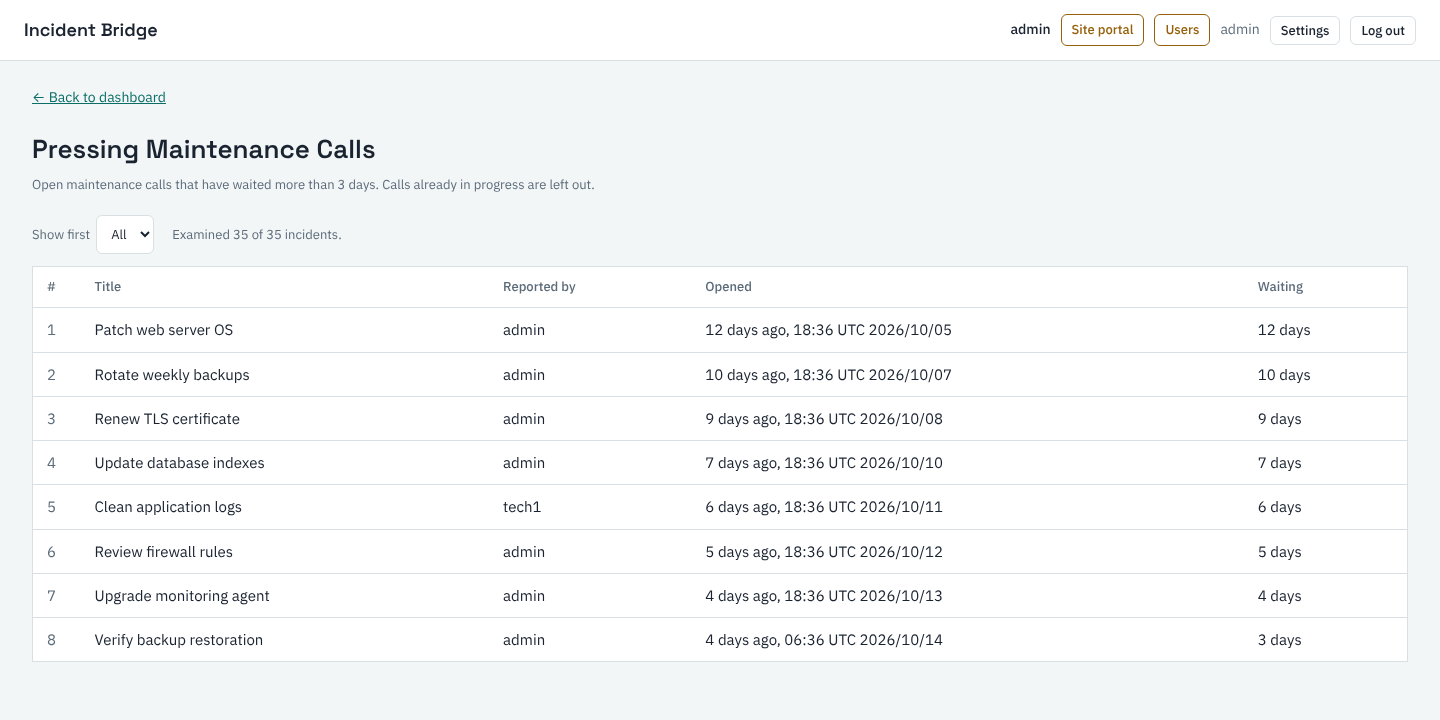
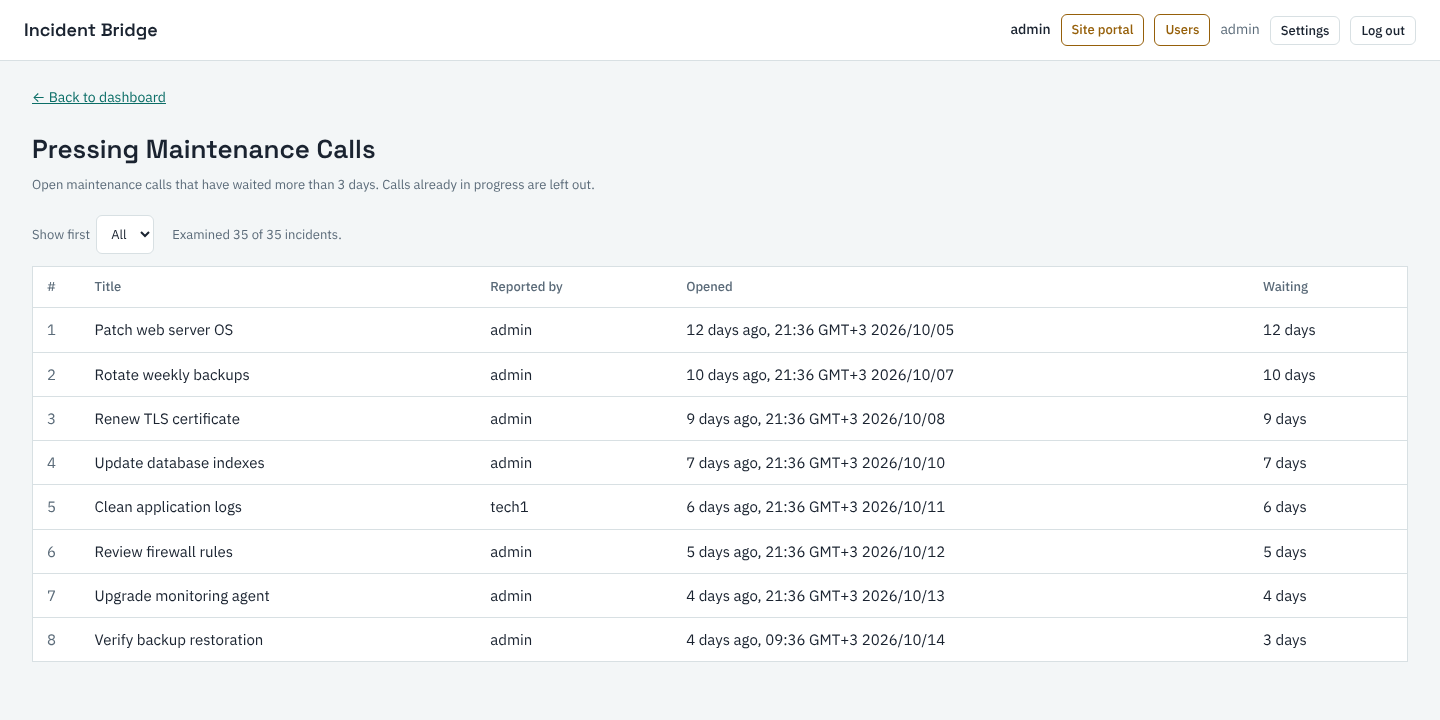
Maintenance tab shows only the queue; sort order toggle; times in the viewer's time zone
- Maintenance tab: only the FIFO queue (it already holds every active task in
  order) - no second list, no status filter, no sorting; the text filter still
  applies to the queue
- Everything / Faults tabs: sort by severity, status or report time with a
  button that reverses the order (Most/Least severe first, Open/Closed first,
  Newest/Oldest first); maintenance tasks stay last when sorting by severity;
  ties newest first; the choice is kept for the browser tab's session
- times shown in the viewer's own time zone with its name
  ("8 hours ago, 15:36 GMT+3 2026/10/17"); the server keeps storing and
  sending UTC
- README, guide and screenshots updated

diff --git a/frontend/js/dashboard.js b/frontend/js/dashboard.js
@@ -9,9 +9,12 @@ import { formatWhen } from "./datetime.js";
  * Dashboard: four tabs over the same data, plus a text filter.
  *
  *   Everything   both queues + every incident (open, in progress and closed)
- *   Maintenance  the maintenance FIFO queue + active maintenance tasks, and
- *                the "Pressing maintenance calls" link
- *   Faults       the fault priority queue + active faults
+ *   Maintenance  the maintenance FIFO queue only - it already holds every
+ *                active task (in progress first, then waiting, in order), so
+ *                there is no second list and no sorting; the text filter
+ *                still applies. Plus the "Pressing maintenance calls" link.
+ *   Faults       the fault priority queue + active faults (the list also
+ *                shows claimed faults, which have left the queue)
  *   Archive      closed incidents of both kinds, most recently closed first
  *
  * The data is fetched once per refresh (both queues + the full incident
@@ -26,13 +29,22 @@ import { formatWhen } from "./datetime.js";
 
 const TABS = ["all", "maintenance", "faults", "archive"];
 const TAB_TYPE = { maintenance: "maintenance", faults: "fault" };   // the one incident type a tab shows
-const LIST_TITLES = { all: "All incidents", maintenance: "Maintenance tasks", faults: "Faults", archive: "Archive" };
+const LIST_TITLES = { all: "All incidents", faults: "Faults", archive: "Archive" };
 const LIST_HINTS = {
   all: "",
-  maintenance: "Open and in progress - closed tasks are in Archive",
   faults: "Open and in progress - closed faults are in Archive",
   archive: "Closed incidents, most recently closed first",
 };
+
+// Sorting the list (Everything and Faults tabs). "asc" is the natural
+// reading order of each key; the toggle button says what it currently does.
+const STATUS_RANK = { open: 0, in_progress: 1, closed: 2 };
+const ORDER_LABELS = {
+  severity: { asc: "Most severe first", desc: "Least severe first" },
+  status: { asc: "Open first", desc: "Closed first" },
+  created_at: { asc: "Newest first", desc: "Oldest first" },
+};
+let sortOrder = recall("sortOrder") === "desc" ? "desc" : "asc";
 const RESOLUTION_LABELS = { resolved: "Resolved", not_an_incident: "Not an incident", by_design: "By design" };
 
 // Stale-work highlighting - uses the generator in backend/app/iterators.py via
@@ -133,8 +145,9 @@ function showTab(name) {
 
   // Controls that only make sense in some tabs.
   document.getElementById("filter-type-label").hidden = name !== "all";
-  document.getElementById("filter-status-label").hidden = name === "archive";
-  document.getElementById("sort-by-label").hidden = name === "archive";
+  // Maintenance: the queue's FIFO order is the point, so no status filter and no sorting.
+  document.getElementById("filter-status-label").hidden = name === "archive" || name === "maintenance";
+  document.getElementById("sort-group").hidden = name === "archive" || name === "maintenance";
   document.getElementById("stale-threshold-label").hidden = name === "archive";
   document.getElementById("check-stale-btn").hidden = name === "archive";
   document.getElementById("pressing-link").hidden = name !== "maintenance";
@@ -142,8 +155,8 @@ function showTab(name) {
   status.querySelector('option[value="closed"]').hidden = name !== "all";   // closed = Archive in the type tabs
   if (name !== "all" && status.value === "closed") status.value = "";
 
-  document.getElementById("list-title").textContent = LIST_TITLES[name];
-  document.getElementById("list-hint").textContent = LIST_HINTS[name];
+  document.getElementById("list-title").textContent = LIST_TITLES[name] || "";
+  document.getElementById("list-hint").textContent = LIST_HINTS[name] || "";
   render();
 }
 
@@ -316,12 +329,9 @@ function renderIncidentList(terms) {
     .map((item) => ({ ...item, match: matchFilter(item, terms) }))
     .filter((item) => item.match);
 
-  items.sort((a, b) => {
-    if (archive) return new Date(b.updated_at) - new Date(a.updated_at);   // most recently closed first
-    if (sortBy === "severity") return (a.severity ?? 4) - (b.severity ?? 4);
-    if (sortBy === "status") return a.status.localeCompare(b.status);
-    return new Date(b.created_at) - new Date(a.created_at);
-  });
+  items.sort(archive
+    ? (a, b) => new Date(b.updated_at) - new Date(a.updated_at)            // most recently closed first
+    : compareBy(sortBy, sortOrder));
 
   renderList(
     document.getElementById("incident-list"),
@@ -405,10 +415,55 @@ function wireStaleCheck() {
   threshold.addEventListener("change", () => { if (staleActive) refresh(); });
 }
 
+/**
+ * Comparator for the list: by `key` ("severity", "status" or "created_at"),
+ * `order` "asc" (most severe / open / newest first) or "desc" (the reverse).
+ * Items without a severity (maintenance tasks) always come last when
+ * sorting by severity, whichever the order. Ties: newest first.
+ */
+function compareBy(key, order) {
+  const sign = order === "desc" ? -1 : 1;
+  const newestFirst = (a, b) => new Date(b.created_at) - new Date(a.created_at);
+  return (a, b) => {
+    let result = 0;
+    if (key === "severity") {
+      if (a.severity == null || b.severity == null) {
+        if (a.severity != null) return -1;
+        if (b.severity != null) return 1;
+      } else {
+        result = sign * (a.severity - b.severity);
+      }
+    } else if (key === "status") {
+      result = sign * (STATUS_RANK[a.status] - STATUS_RANK[b.status]);
+    } else {
+      result = sign * newestFirst(a, b);
+    }
+    return result || newestFirst(a, b);
+  };
+}
+
+function updateOrderButton() {
+  const key = document.getElementById("sort-by").value;
+  const button = document.getElementById("sort-order");
+  button.textContent = `${sortOrder === "asc" ? "↓" : "↑"} ${ORDER_LABELS[key][sortOrder]}`;
+  button.title = "Reverse the order";
+}
+
 function wireFilters() {
-  ["filter-type", "filter-status", "sort-by"].forEach((id) =>
+  ["filter-type", "filter-status"].forEach((id) =>
     document.getElementById(id).addEventListener("change", render)
   );
+  const sortBy = document.getElementById("sort-by");
+  const remembered = recall("sortBy");
+  if (remembered && ORDER_LABELS[remembered]) sortBy.value = remembered;
+  sortBy.addEventListener("change", () => { remember("sortBy", sortBy.value); updateOrderButton(); render(); });
+  document.getElementById("sort-order").addEventListener("click", () => {
+    sortOrder = sortOrder === "asc" ? "desc" : "asc";
+    remember("sortOrder", sortOrder);
+    updateOrderButton();
+    render();
+  });
+  updateOrderButton();
   const text = document.getElementById("filter-text");
   text.value = recall("filter") || "";
   let timer = null;

diff --git a/frontend/guide.html b/frontend/guide.html
@@ -116,13 +116,14 @@
       <a href="/screenshots/02-dashboard.png"><img src="/screenshots/02-dashboard.png" alt="The dashboard: filters, buttons and tabs above the maintenance queue" width="1440" height="900" loading="lazy"></a>
       <figcaption>The dashboard, seen by an admin (<em>Import seed data</em>, <em>Site portal</em> and <em>Users</em> are admin-only).</figcaption>
     </figure>
-    <p>After logging in you land on the dashboard. It has four tabs, each with its count: <strong>Everything</strong> (all of the below), <strong>Maintenance</strong> (the maintenance queue and the active tasks), <strong>Faults</strong> (the fault queue and the active faults) and <strong>Archive</strong> (closed incidents of both kinds, most recently closed first). The <em>Everything</em> tab, from top to bottom:</p>
+    <p>After logging in you land on the dashboard. It has four tabs, each with its count: <strong>Everything</strong> (all of the below), <strong>Maintenance</strong> (just the maintenance queue — every task in it is open or in progress, in order, so there is nothing to sort), <strong>Faults</strong> (the fault queue and the active faults) and <strong>Archive</strong> (closed incidents of both kinds, most recently closed first). The <em>Everything</em> tab, from top to bottom:</p>
     <ul>
       <li><strong>Maintenance queue</strong> — first in, first out: tasks are done one at a time, in the order they were reported. <em>#1 in queue</em> is next.</li>
       <li><strong>Fault queue</strong> — priority order: every <span style="color:var(--critical);font-weight:600">Critical</span> fault before any <span style="color:var(--major);font-weight:600">Major</span> one, and every Major before any Minor; within a severity, oldest first.</li>
-      <li><strong>All incidents</strong> — everything, including closed incidents. The <em>Type</em>, <em>Status</em> and <em>Sort by</em> filters at the top apply to this list.</li>
+      <li><strong>All incidents</strong> — everything, including closed incidents. The <em>Type</em>, <em>Status</em> and <em>Sort by</em> filters at the top apply to this list; the button next to <em>Sort by</em> reverses the order (for example <em>Most severe first</em> / <em>Least severe first</em>).</li>
     </ul>
     <p>Type in <strong>Filter</strong> to show only incidents whose title, description or comments contain the words you type (a row found only through a comment says <em>match in comments</em>); the tab counts then show <em>matching / total</em>.</p>
+    <p>Times are shown in <strong>your own time zone</strong>, for example <em>3 hours ago, 14:36 GMT+3 2026/10/17</em> — someone in another country sees the same moment in theirs.</p>
     <p>Click any row to open the incident. The dashboard updates by itself when anyone changes something — a closed incident moves to Archive on its own — there is no need to refresh. Coming back from an incident page reopens the same tab, with the same filter.</p>
     <h3>Two helpers</h3>
     <ul>

diff --git a/frontend/js/datetime.js b/frontend/js/datetime.js
@@ -1,12 +1,14 @@
 /**
  * How the app shows a moment in time: how long ago, then the exact time in
- * UTC, e.g.
+ * the VIEWER'S OWN time zone (the browser's), with the zone's name, e.g.
  *
- *     formatWhen("2026-06-01T16:11:00Z")  ->  "13 days ago, 16:11 UTC 2026/06/01"
+ *     formatWhen("2026-06-01T16:11:00Z")  ->  "13 days ago, 19:11 GMT+3 2026/06/01"   (in Israel)
+ *                                         ->  "13 days ago, 12:11 EDT 2026/06/01"     (in New York)
  *
- * UTC (not the viewer's local time) so everyone on the team reads the same
- * clock when they compare notes. timeAgo() alone is used where space is
- * short; formatUtc() alone where "ago" adds nothing.
+ * The server stores and sends every time in UTC (ISO 8601); only the display
+ * is converted, so two people in different time zones see the same moment in
+ * their own clock, each labeled with its zone. timeAgo() alone is used where
+ * space is short; formatLocal() alone where "ago" adds nothing.
  */
 
 export function timeAgo(iso) {
@@ -18,15 +20,30 @@ export function timeAgo(iso) {
   return plural(Math.round(hours / 24), "day");
 }
 
-export function formatUtc(iso) {
+export function formatLocal(iso) {
   const d = new Date(iso);
   const two = (n) => String(n).padStart(2, "0");
-  return `${two(d.getUTCHours())}:${two(d.getUTCMinutes())} UTC `
-    + `${d.getUTCFullYear()}/${two(d.getUTCMonth() + 1)}/${two(d.getUTCDate())}`;
+  return `${two(d.getHours())}:${two(d.getMinutes())} ${zoneName(d)} `
+    + `${d.getFullYear()}/${two(d.getMonth() + 1)}/${two(d.getDate())}`;
 }
 
 export function formatWhen(iso) {
-  return iso ? `${timeAgo(iso)}, ${formatUtc(iso)}` : "";
+  return iso ? `${timeAgo(iso)}, ${formatLocal(iso)}` : "";
+}
+
+/** The browser's short name for its time zone at that moment ("GMT+3", "EDT", "UTC"...). */
+function zoneName(date) {
+  try {
+    const part = new Intl.DateTimeFormat("en-US", { timeZoneName: "short" })
+      .formatToParts(date).find((p) => p.type === "timeZoneName");
+    if (part) return part.value;
+  } catch {
+    // very old browser: fall through to the numeric offset
+  }
+  const offset = -date.getTimezoneOffset();
+  const sign = offset >= 0 ? "+" : "-";
+  const abs = Math.abs(offset);
+  return `UTC${sign}${Math.floor(abs / 60)}${abs % 60 ? `:${String(abs % 60).padStart(2, "0")}` : ""}`;
 }
 
 function plural(n, unit) {

diff --git a/frontend/dashboard.html b/frontend/dashboard.html
@@ -30,13 +30,16 @@
             <option value="closed">Closed</option>
           </select>
         </label>
-        <label id="sort-by-label">Sort by
-          <select id="sort-by">
-            <option value="severity">Severity</option>
-            <option value="created_at">Newest</option>
-            <option value="status">Status</option>
-          </select>
-        </label>
+        <div class="sort-group" id="sort-group">
+          <label>Sort by
+            <select id="sort-by">
+              <option value="severity">Severity</option>
+              <option value="status">Status</option>
+              <option value="created_at">Reported</option>
+            </select>
+          </label>
+          <button type="button" class="btn btn-ghost sort-order" id="sort-order" aria-describedby="sort-by"></button>
+        </div>
       </div>
       <div class="actions-row" style="margin-bottom:0">
         <label class="inline-select" id="stale-threshold-label">Stale after
@@ -80,7 +83,8 @@
       <div id="fault-queue"><p class="empty">Loading…</p></div>
     </section>
 
-    <section class="queue-section" data-tabs="all maintenance faults archive">
+    <!-- Not on the Maintenance tab: there the FIFO queue IS the list (every task in it is open or in progress). -->
+    <section class="queue-section" data-tabs="all faults archive">
       <h2><span id="list-title">All incidents</span> <span class="hint" id="list-hint"></span></h2>
       <div id="incident-list"><p class="empty">Loading…</p></div>
     </section>

diff --git a/frontend/css/styles.css b/frontend/css/styles.css
@@ -245,6 +245,8 @@ textarea { resize: vertical; }
 }
 .filters { display: flex; gap: 16px; flex-wrap: wrap; }
 .filters label { margin-bottom: 0; }
+.sort-group { display: flex; align-items: flex-end; gap: 8px; }
+.sort-order { white-space: nowrap; padding: 8px 12px; }
 .queue-section { margin-bottom: 32px; }
 .queue-section h2 { display: flex; align-items: center; }
 

diff --git a/backend/seed_from_jsonl.py b/backend/seed_from_jsonl.py
@@ -74,15 +74,36 @@ def _find_admin_credentials():
 
 
 MAX_PASSWORD_ATTEMPTS = 3
+_warned_visible = False     # the "password will be visible" warning is shown once
 
 
 def _ask_password(username: str) -> str:
-    """The admin's password, typed at the terminal (shown as * where Python supports it, else hidden)."""
+    """
+    The admin's password, typed at the terminal.
+
+    In a real terminal window (PowerShell, cmd, Windows Terminal, a Linux or
+    macOS shell) it is read with getpass, so the typing is hidden (shown as *
+    on Python 3.14+). getpass on Windows reads straight from the console
+    window - inside an IDE's Run window (PyCharm, VS Code's debug console...)
+    that window is invisible, so the prompt never shows and the script waits
+    forever for keys typed somewhere you cannot see. When there is no real
+    terminal (sys.stdin is not a TTY), the password is read as normal input
+    instead, after a warning that it will be visible.
+    """
     prompt = f"Password for {username!r} (then press Enter): "
+    if not (sys.stdin.isatty() and sys.stdout.isatty()):
+        global _warned_visible
+        if not _warned_visible:
+            print("This console cannot hide what you type - the password WILL BE VISIBLE. "
+                  "Run the script from a terminal window (e.g. PowerShell) to hide it.", flush=True)
+            _warned_visible = True
+        print(prompt, end="", flush=True)
+        return sys.stdin.readline().rstrip("\r\n")
+    sys.stdout.flush()
     try:
         return getpass.getpass(prompt, echo_char="*")          # Python 3.14+
     except TypeError:
-        print("(typing is hidden - nothing appears while you type)")
+        print("(typing is hidden - nothing appears while you type)", flush=True)
         return getpass.getpass(prompt)
 
 

diff --git a/README.md b/README.md
@@ -57,7 +57,7 @@ The web app as of v0.5.0 (with the dashboard tabs, Settings and Users page), wit
 
 [![Login page](docs/screenshots/01-login.png)](docs/screenshots/01-login.png)
 
-**2. Dashboard** — the text filter (title, description and comments), the other filters, *Check stale incidents*, *New incident* and the admin-only *Import seed data*, above four tabs: **Everything** (the **maintenance queue** — FIFO: one at a time, in arrival order — the **fault queue** — priority order: most severe first, every severity together — and the full incident list), **Maintenance** (its queue and active tasks, plus *Pressing maintenance calls*), **Faults** (its queue and active faults) and **Archive** (closed incidents of both kinds). Every open tab updates live ([§5](#5-incident-lifecycle-and-actions), [§11](#11-architecture--as-built)).
+**2. Dashboard** — the text filter (title, description and comments), the other filters, *Check stale incidents*, *New incident* and the admin-only *Import seed data*, above four tabs: **Everything** (the **maintenance queue** — FIFO: one at a time, in arrival order — the **fault queue** — priority order: most severe first, every severity together — and the full incident list), **Maintenance** (only its FIFO queue — it already holds every active task, so there is no second list and no sorting — plus *Pressing maintenance calls*), **Faults** (its queue and active faults) and **Archive** (closed incidents of both kinds). Every open tab updates live ([§5](#5-incident-lifecycle-and-actions), [§11](#11-architecture--as-built)).
 
 [![Dashboard](docs/screenshots/02-dashboard.png)](docs/screenshots/02-dashboard.png)
 
@@ -81,7 +81,7 @@ The web app as of v0.5.0 (with the dashboard tabs, Settings and Users page), wit
 
 [![Settings, Interface tab](docs/screenshots/07-settings-interface.png)](docs/screenshots/07-settings-interface.png)
 
-**8. Dark theme** — the dashboard's *Faults* tab: the fault queue in priority order, with each fault's time as *hours ago, HH:MM UTC YYYY/MM/DD*.
+**8. Dark theme** — the dashboard's *Faults* tab: the fault queue in priority order, with each fault's time as *hours ago, HH:MM zone YYYY/MM/DD* in the viewer's own time zone (captured in Israel time, GMT+3).
 
 [![Dashboard in the dark theme](docs/screenshots/08-dashboard-dark.png)](docs/screenshots/08-dashboard-dark.png)
 
@@ -323,7 +323,7 @@ In the diagram, *italic* members are abstract (`extra_fields()`; `kind` is an ab
   - `Work session completed after 42.0s.` / `Work session interrupted after 3.1s by RuntimeError: disk full` (`IncidentWorkSession`, [§10](#10-context-managers))
 
   Part A's "a mandatory closure message once resolved" is exactly this: the closing message is stored on the incident and also recorded as the reason in the log entry.
-- **Dashboard tabs:** *Everything*, *Maintenance*, *Faults* (open and in-progress only) and *Archive* (closed incidents, most recently closed first; a reopened incident moves back automatically). Each tab shows its count; the open tab is kept in the URL (`dashboard.html#faults`) and, with the filter text, for the browser tab's session, so coming back from an incident page restores both.
+- **Dashboard tabs:** *Everything*, *Maintenance* (just the FIFO queue: it already holds every active task, in order, so it has no second list, no status filter and no sorting), *Faults* (the priority queue, plus the list of open and in-progress faults — claimed faults leave the queue) and *Archive* (closed incidents, most recently closed first; a reopened incident moves back automatically). On *Everything* and *Faults* the list sorts by severity, status or report time, with a button that reverses the order (*Most severe first* / *Least severe first*, *Open first* / *Closed first*, *Newest first* / *Oldest first*; maintenance tasks, which have no severity, stay last when sorting by severity). Each tab shows its count; the open tab is kept in the URL (`dashboard.html#faults`) and, with the filter text, for the browser tab's session, so coming back from an incident page restores both.
 - **Text filter:** filters every list and queue of the open tab by title, description **and comments** (case-insensitive; with several words, each must appear). Queue rows keep their real position; a row matched only by a comment says *match in comments*; the tab counts show *matching / total*. It runs in the browser on the data the page already loads — no extra server call.
 - **Dashboard helpers:** *Pressing maintenance calls* (Maintenance tab; open tasks waiting more than 3 days, [§9](#9-iteration-iterableiterator-generator-and-lazy-pipeline)) and *Check stale incidents* (every tab except Archive; in-progress incidents with no update for a chosen time, default 4 hours, highlighted in the lists).
 
@@ -578,7 +578,7 @@ Both live in `backend/app/context.py`; neither ever suppresses an exception (`__
 - **Frontend:** plain HTML/CSS/JavaScript, no build step, served by the same app (same origin). Pages: `index.html` (login), `dashboard.html` (tabs: Everything / Maintenance / Faults / Archive, both queues, the full filterable/sortable list with a text filter over titles, descriptions and comments, new incident, stale check, admin import), `incident.html` (details, actions, comments), `pressing.html` (pressing maintenance calls), `sites.html` (the admin site portal) and `users.html` (admin user management). Lists are patched in place, so live updates never flicker.
 - **Settings** (top bar, `js/settings.js`): a *Password* tab (current, new and confirm, with the policy tooltip linking to `/guide.html#password-policy` and a live checklist — `js/password-fields.js`) and an *Interface* tab (color scheme Light / Dark / System, text size 90–130%). The interface choices are kept in the browser's `localStorage` and applied by `js/theme.js`, a tiny script in the `<head>` of every page, so the right theme is drawn from the first frame; the dark theme only redefines the color tokens in `css/styles.css`. A user who must change their password gets the Password tab and cannot close it.
 - **Always the current interface files:** every response carries `Cache-Control: no-cache` (`app/api/security.py`), so the browser re-checks each HTML/JS/CSS file with the server before using its copy — an unchanged file costs a tiny *304 Not Modified*, a changed one is downloaded at once. No manual cache clearing after an upgrade. Pages that were already open when the server was upgraded reload themselves: the footer (`js/footer.js`) re-reads the version from `GET /health` every minute and when the tab comes back into view, and reloads the page when it differs from the version the page was loaded with — so bump the version in `backend/pyproject.toml` with every release.
-- **Dates and times:** wherever an incident's time is shown (dashboard rows, incident page and its comments, pressing calls, the Users list), it reads like *13 days ago, 16:11 UTC 2026/06/01* (`js/datetime.js`) — UTC so everyone compares the same clock.
+- **Dates and times:** wherever an incident's time is shown (dashboard rows, incident page and its comments, pressing calls, the Users list), it reads like *13 days ago, 19:11 GMT+3 2026/06/01* (`js/datetime.js`): the server stores and sends every time in UTC, and each browser shows it in its **own time zone**, named, so people in different places each see their local clock.
 - **Public pages:** `guide.html` (how to use the app, for users and admins, illustrated with `docs/screenshots/`), `about.html` (what it is, the team, how it is built) and `terms.html` (terms of use: accounts, acceptable use, what the AI providers receive, storage and cookies). They open without logging in; their header (`js/public-page.js`) shows *Log in* or, when logged in, *Back to dashboard*. A footer on **every** page (`js/footer.js`) links them, with the version, the license and the repository. The team, repository and license are kept in one file, `js/site-info.js`; the version comes from `GET /health`, which reads `backend/pyproject.toml` (`app/version.py`), so it is bumped in one place only.
 - **Runs locally, as a single process:** the queues are in-memory Python objects, so the app must run as one process / one Uvicorn worker; several workers would each have their own queues. The project runs locally for now; hosting will be decided when it expands.
 
@@ -679,7 +679,7 @@ Incident_Bridge/
 │       ├── events.js             # live-update client (per-tab id, event scopes)
 │       ├── theme.js              # color scheme + text size, applied before the page is drawn (every page)
 │       ├── settings.js, password-fields.js   # Settings dialog; password fields with policy tooltip + checklist
-│       ├── datetime.js           # "13 days ago, 16:11 UTC 2026/06/01"
+│       ├── datetime.js           # "13 days ago, 19:11 GMT+3 2026/06/01" (the viewer's time zone)
 │       ├── topbar.js, toast.js, row-list.js, updates-order.js
 │       ├── text-limits.js        # text-length limits (mirror the backend) + live character counters
 │       ├── login.js, dashboard.js, incident.js, pressing.js
@@ -722,7 +722,7 @@ Incident_Bridge/
 
 ## 14. Automated testing
 
-`backend/tests/` holds **1207 tests** (pytest), all passing, with **98% statement coverage** of `backend/app/`. GitHub Actions runs them on every push and pull request (`.github/workflows/backend-tests.yml`).
+`backend/tests/` holds **1209 tests** (pytest), all passing, with **98% statement coverage** of `backend/app/`. GitHub Actions runs them on every push and pull request (`.github/workflows/backend-tests.yml`).
 
 - **Unit tests** — the domain classes directly, no HTTP and no database: models (`tests/test_models/`), services (`tests/test_services/`), queues (`tests/test_queues/`), iterators, the generator, context managers, the scan, the report, the site directory, user provisioning and JSONL validation.
 - **Integration tests** (`tests/test_api/`) — the real app over HTTP with FastAPI's `TestClient` and a fresh in-memory database per test: permissions, error codes, every endpoint, live-update audiences. The `admin_client` and `user_client` fixtures are two separately logged-in users sharing the same backend.
@@ -787,7 +787,7 @@ Open `http://127.0.0.1:8000/` and log in. `serve_app.py` loads `.env`, checks `I
 
 **4. Load the sample data** — any of:
 - as an admin, the dashboard's **Import seed data** button (choose `data/sample_data.jsonl`);
-- with the server running, from `backend/`: `python seed_from_jsonl.py` (or `python seed_from_jsonl.py path/to/file.jsonl`) — logs in as an admin and imports through the API, so the incidents appear live in every open browser. It first tries the first admin's password from `INCIDENT_BRIDGE_USERS`; once that admin has changed it (the app asks at the first login), it asks for the current password — one prompt, up to 3 tries. `--username <name>` logs in as another admin and asks for the password straight away;
+- with the server running, from `backend/`: `python seed_from_jsonl.py` (or `python seed_from_jsonl.py path/to/file.jsonl`) — logs in as an admin and imports through the API, so the incidents appear live in every open browser. It first tries the first admin's password from `INCIDENT_BRIDGE_USERS`; once that admin has changed it (the app asks at the first login), it asks for the current password — one prompt, up to 3 tries. In a terminal window (PowerShell, cmd, a shell) the typing is hidden; in an IDE's Run window, which cannot hide it, the script says so and reads the password as visible text. `--username <name>` logs in as another admin and asks for the password straight away;
 - sites and mailing lists: set `SITES_SEED_PATH=data/sites.jsonl` and `MAILING_LISTS_SEED_PATH=data/mailing_lists.jsonl` in `.env` and restart.
 
 Re-importing is safe: records whose id already exists are skipped.
